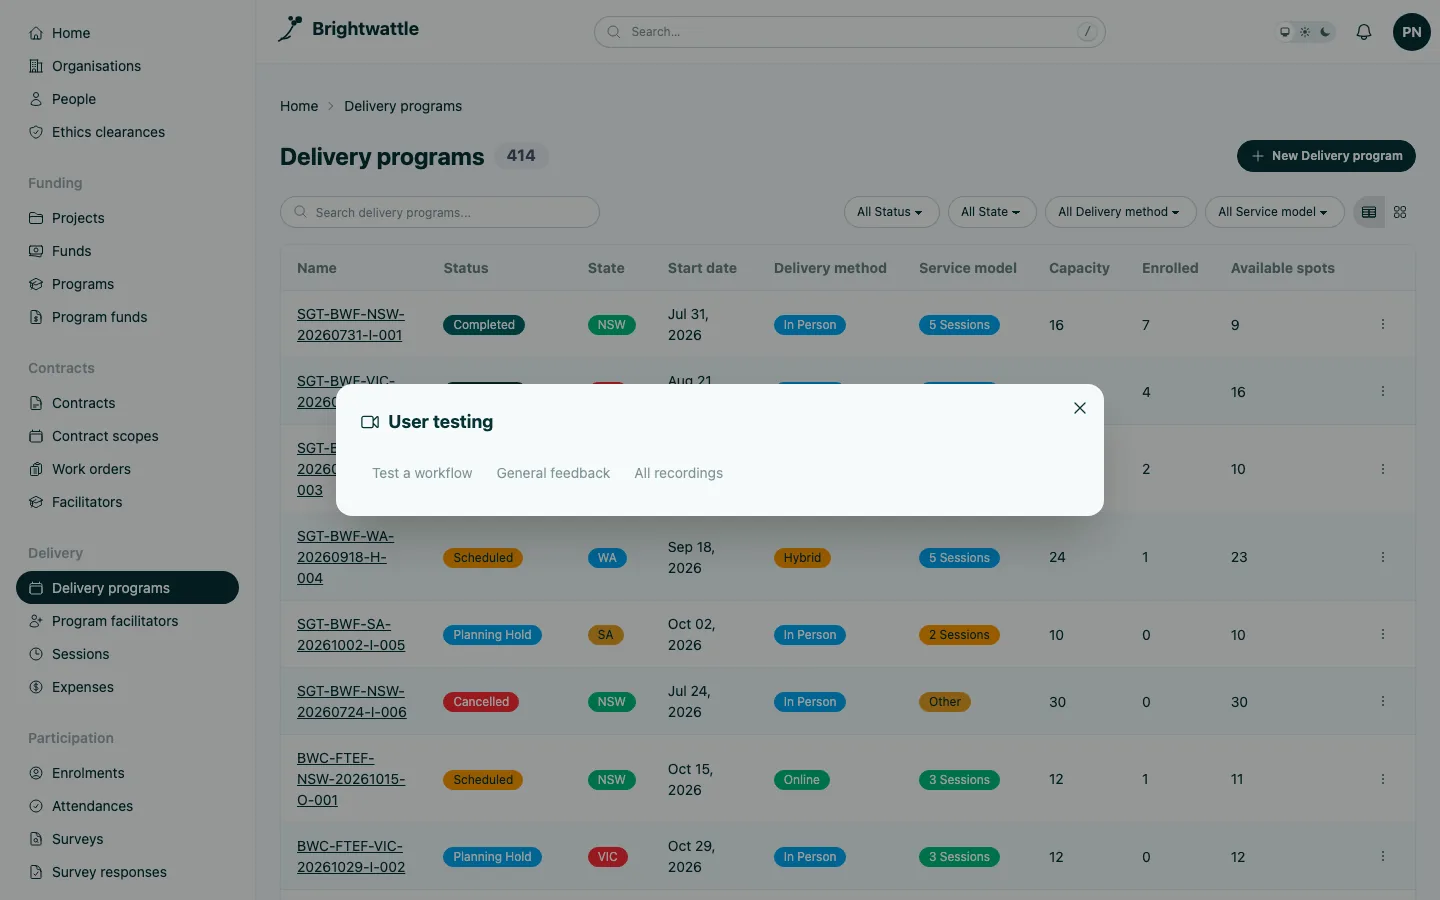
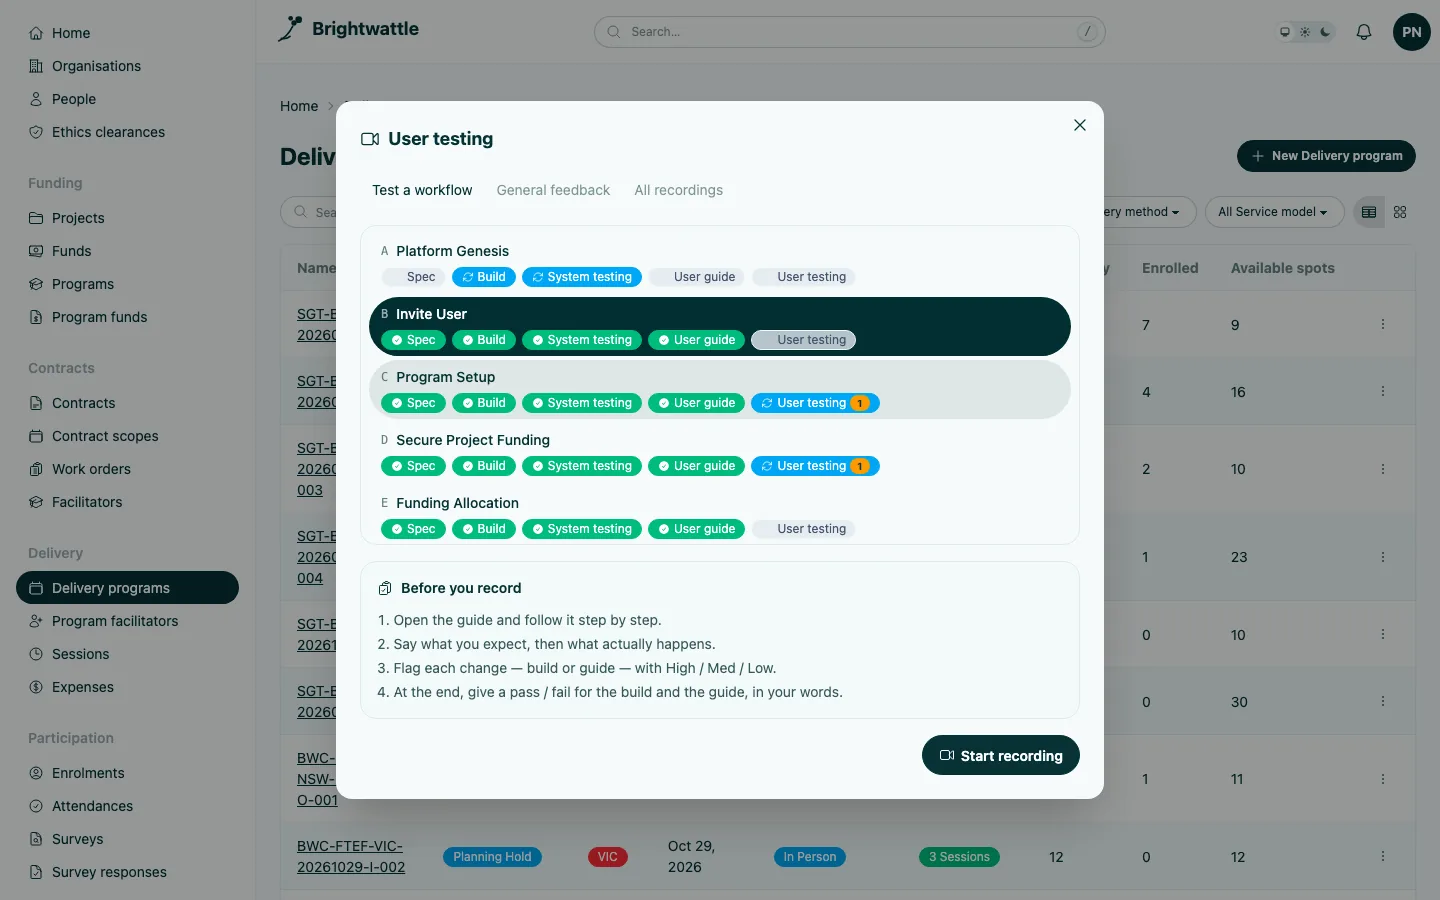
Reshoot the user testing screenshot with a workflow selected
The first capture showed the panel with nothing selected, so the list
had no highlighted row and Start recording was greyed out. It read as
though no workflow was ready for testing.

The new shot has "Invite User" selected: four green gates, the "Before
you record" checklist the app gives the tester, and Start recording
enabled. The caption now says that only workflows with a finished user
guide can be recorded.

Claude-Session: https://claude.ai/code/session_01GRHgrxTbsyCUAR3ZGuYBLK

diff --git a/index.html b/index.html
@@ -1386,10 +1386,10 @@
           <div class="shot-frame">
             <picture>
               <source srcset="/site/images/platform/usertesting.avif" type="image/avif">
-              <img src="/site/images/platform/usertesting.webp" alt="The user testing panel open over the application, listing workflows with their gate status and a start recording button" width="1440" height="900" loading="lazy" decoding="async">
+              <img src="/site/images/platform/usertesting.webp" alt="The user testing panel with the Invite User workflow selected, its five gates shown, a Before you record checklist and an enabled start recording button" width="1440" height="900" loading="lazy" decoding="async">
             </picture>
           </div>
-          <figcaption class="shot-cap">A user opens this from their own menu, picks the workflow they are about to exercise, and records the session. The recording lands against that workflow's user-testing gate. Feedback is not a survey sent afterwards — it is collected in the application, at the moment the person meets the thing.</figcaption>
+          <figcaption class="shot-cap">A user opens this from their own menu and picks the workflow they are about to exercise. Only workflows whose user guide is finished can be recorded — the rest are listed but refuse to start. Then the app tells the tester how to run the session, and the recording lands against that workflow's user-testing gate. Feedback is not a survey sent afterwards. It is collected in the application, at the moment the person meets the thing.</figcaption>
         </figure>
       </div>
     </div>
